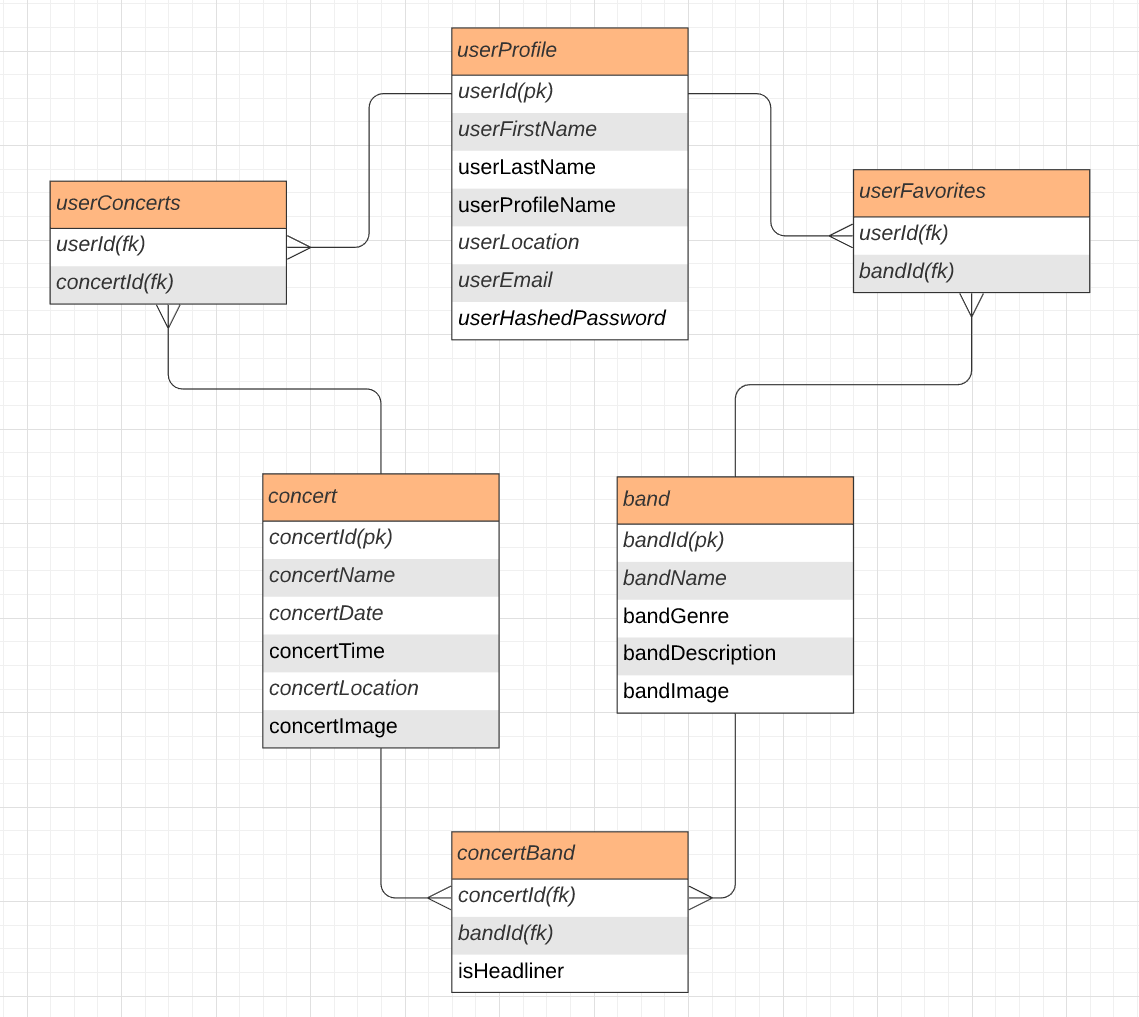
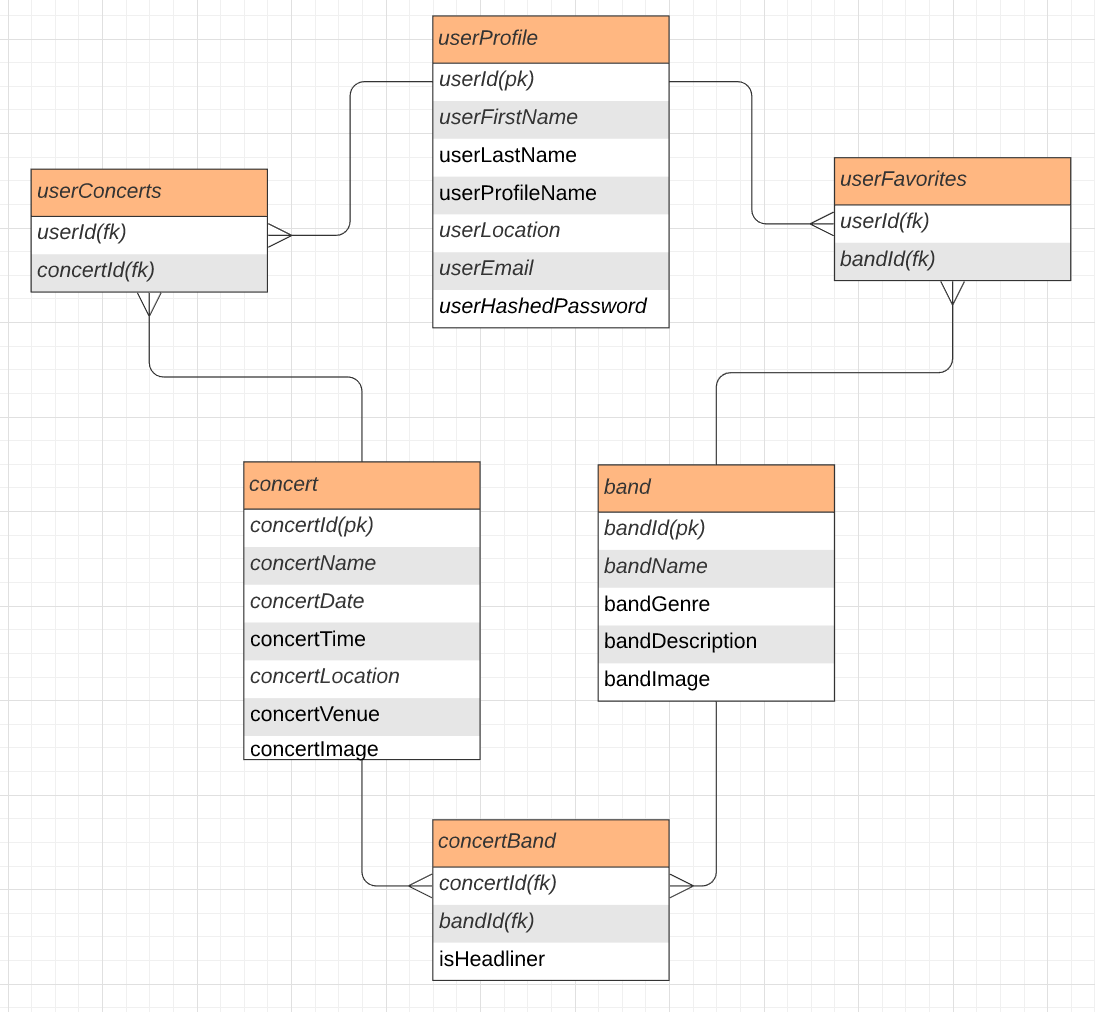
Updated ERD and Concept

diff --git a/epic/Conceptual Model - ERD/ConceptualModel.md b/epic/Conceptual Model - ERD/ConceptualModel.md
@@ -28,6 +28,8 @@
 
 * concertLocation
 
+* concertVenue
+
 * concertImage
 
 ## Band
